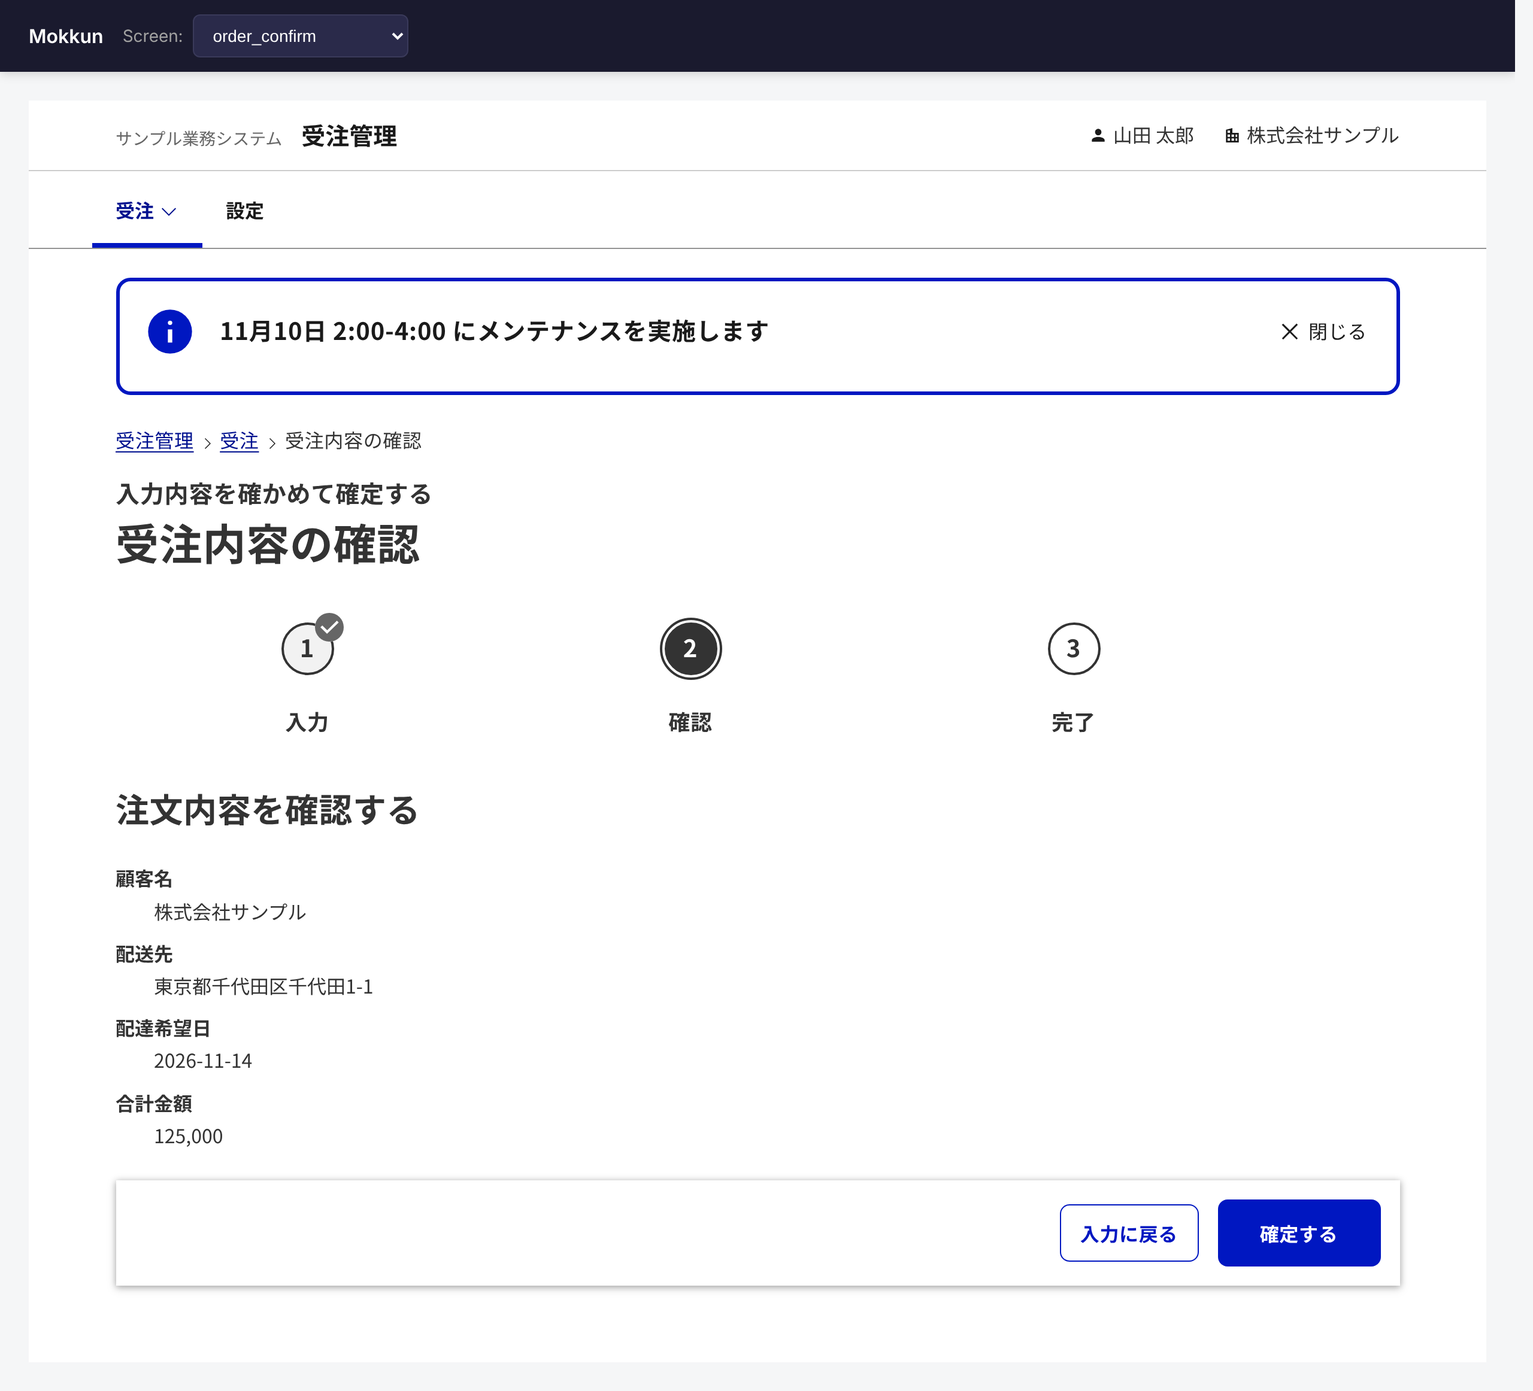
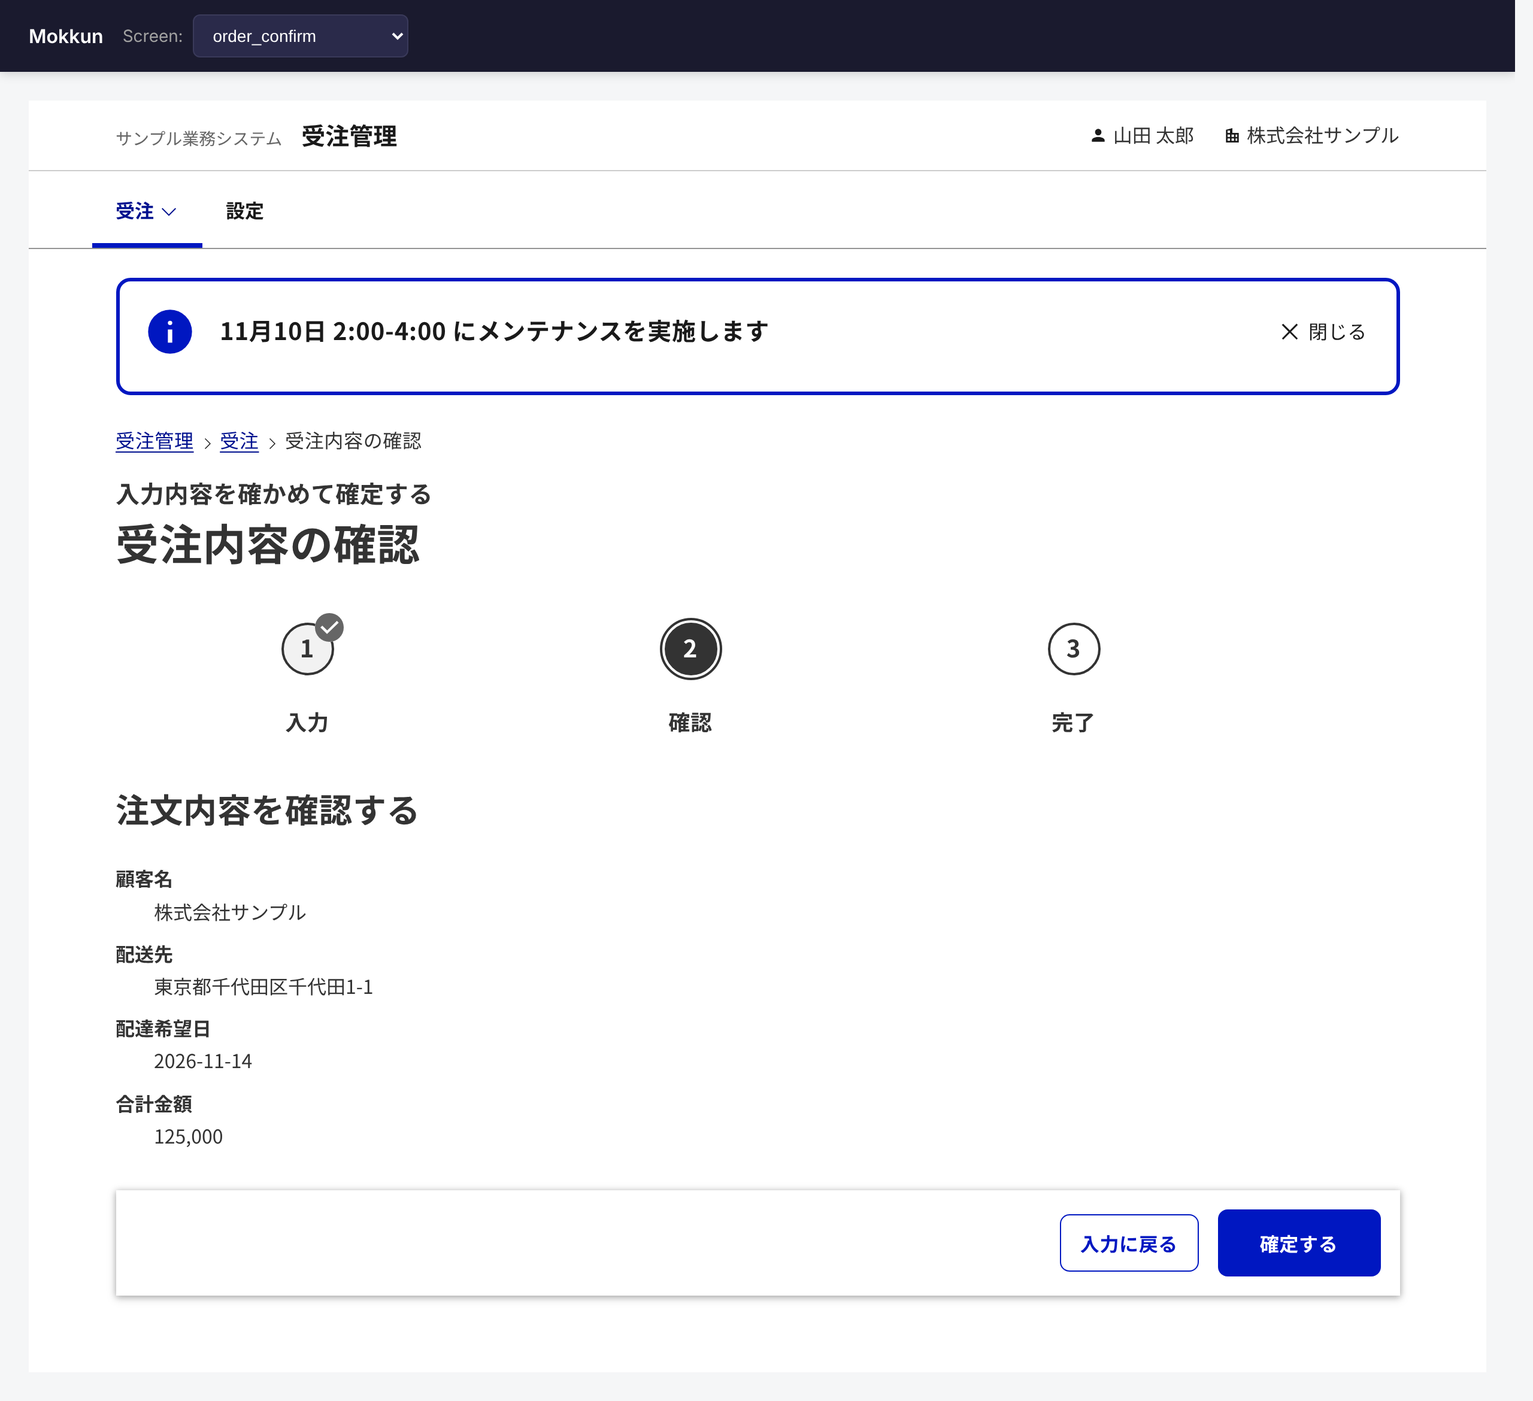
fix(renderer-v2): select widths, paging as first page, opt-in hash sync, loader single parse, spacing
Claude-Session: https://claude.ai/code/session_01EdDb32QHxcDQh62o82txRC

diff --git a/src/__tests__/renderer-v2-behavior.test.ts b/src/__tests__/renderer-v2-behavior.test.ts
@@ -4,6 +4,7 @@
 
 import { describe, it, expect, beforeEach, afterEach, vi } from 'vitest'
 import fs from 'fs'
+import yaml from 'js-yaml'
 import { parseYamlV2 } from '../parser/yaml-parser'
 import { renderViewV2, mountViewV2 as mountRaw, type V2Controller } from '../renderer-v2'
 import { loadFromUrl } from '../loader'
@@ -207,6 +208,8 @@ describe('visibleWhen', () => {
     ['select', f('src', 'select', { default: 'b', options: [{ value: 'a', label: 'A' }, { value: 'b', label: 'B' }] }), () => {}, 'b', true],
     ['checkbox multiple (1 件の選択肢)', f('src', 'checkbox', { multiple: true, default: ['a'], options: [{ value: 'a', label: 'A' }] }), () => {}, 'a', true],
     ['checkbox multiple 未選択', f('src', 'checkbox', { multiple: true, options: [{ value: 'a', label: 'A' }] }), () => {}, 'a', false],
+    ['date (既定値あり)', f('src', 'date', { default: '2026-11-14' }), () => {}, '2026-11-14', true],
+    ['date (未入力)', f('src', 'date'), () => {}, '2026-11-14', false],
     ['select multiple', f('src', 'select', { multiple: true, default: ['b'], options: [{ value: 'a', label: 'A' }, { value: 'b', label: 'B' }] }), () => {}, 'a', false],
   ]
   it.each(cases)('静的な初期表示と mount 後の評価が一致する: %s', (_name, src, _prep, equals, expected) => {
@@ -277,7 +280,10 @@ describe('field.width / date カレンダーボタン', () => {
   })
   it('props.calendar でカレンダーボタン、inline は月表示', () => {
     const root = dom(renderViewV2(build({ sections: [section([f('a', 'date', { props: { calendar: true } }), f('b', 'date', { inline: true })])] }), 'v'))
-    expect(root.querySelector('[data-field="a"] button.dads-date-picker__calendar-button[aria-haspopup]')).not.toBeNull()
+    const btn = root.querySelector('[data-field="a"] button.dads-date-picker__calendar-button')!
+    expect(btn.getAttribute('aria-disabled')).toBe('true')
+    expect(btn.hasAttribute('aria-haspopup')).toBe(false)
+    expect(btn.hasAttribute('aria-expanded')).toBe(false)
     expect(root.querySelector('[data-field="b"] .dads-calendar')).not.toBeNull()
     expect(root.querySelector('[data-field="b"] .dads-date-picker__calendar-button')).toBeNull()
   })
@@ -397,7 +403,10 @@ describe('ローダー / Mokkun.init', () => {
   it('v2 文書はローダーを 1 回通るだけで schemaV2 を返す', async () => {
     const text = fs.readFileSync('examples/v2/order-entry.yaml', 'utf-8')
     vi.stubGlobal('fetch', vi.fn().mockResolvedValue({ ok: true, text: async () => text }))
+    const load = vi.spyOn(yaml, 'load')
     const r = await loadFromUrl('http://localhost/order-entry.yaml')
+    expect(load).toHaveBeenCalledTimes(1)
+    load.mockRestore()
     expect(r.success).toBe(true)
     if (r.success) {
       expect(r.schemaV2!.mokkun).toBe(2)
@@ -441,5 +450,74 @@ views:
     expect(document.querySelector(STYLE)).toBe(style)
     inst.destroy()
     expect(document.querySelector(STYLE)).toBeNull()
+  })
+})
+
+describe('ページ送りと checkbox の値', () => {
+  it('pageSize が無ければページ送りを出さない', () => {
+    const s = build({ sections: [{ id: 'l', title: 'L', kind: 'list', list: { columns: [{ id: 'c', label: 'C' }] } }] })
+    expect(dom(renderViewV2(s, 'v')).querySelector('.dads-page-navigation')).toBeNull()
+  })
+  it('単一 checkbox は value="true"', () => {
+    const root = dom(renderViewV2(build({ sections: [section([f('c', 'checkbox')])] }), 'v'))
+    expect(root.querySelector('input[type="checkbox"]')!.getAttribute('value')).toBe('true')
+  })
+})
+
+describe('挿入される <style>', () => {
+  it('DADS と mokkun-v2.css の実際の内容を含む', () => {
+    mountViewV2(container, build({}), 'v')
+    const css = document.querySelector(STYLE)!.textContent!
+    expect(css).toContain('.dads-select__control')
+    expect(css).toContain('[data-width="full"]')
+  })
+})
+
+describe('repeatable の再採番とフォーカス', () => {
+  it('既知の接尾辞だけを再採番し、a__2-b のような item 名は壊さない', () => {
+    const s = build({ sections: [{ id: 'r', title: 'R', repeatable: { min: 1 }, fields: [f('x__2-b', 'text', { help: 'h' })] }] })
+    mountViewV2(container, s, 'v')
+    container.querySelector<HTMLElement>('[data-repeat-add]')!.click()
+    const input = container.querySelectorAll<HTMLInputElement>('input[name^="x__2-b"]')
+    expect(Array.from(input).map(i => i.name)).toEqual(['x__2-b__1', 'x__2-b__2'])
+    expect(input[1].id).toBe('v-x__2-b__2')
+    expect(input[1].getAttribute('aria-describedby')).toBe('v-x__2-b__2-support')
+  })
+  it('削除後は追加ボタンにフォーカスが移る', () => {
+    const s = build({ sections: [{ id: 'r', title: 'R', repeatable: { min: 1, max: 3 }, fields: [f('x', 'text')] }] })
+    mountViewV2(container, s, 'v')
+    const add = container.querySelector<HTMLElement>('[data-repeat-add]')!
+    add.click()
+    container.querySelectorAll<HTMLElement>('[data-repeat-remove]')[1].click()
+    expect(document.activeElement).toBe(add)
+  })
+})
+
+describe('syncHash', () => {
+  const s = build({ secondaryActions: [{ id: 'go', label: 'Go', kind: 'navigate', to: 'v' }] })
+  it('既定では location.hash を書き換えない', () => {
+    window.location.hash = ''
+    const seen: string[] = []
+    mountViewV2(container, s, 'v', { onNavigate: v => seen.push(v) })
+    container.querySelector<HTMLElement>('[data-action="go"]')!.click()
+    expect(seen).toEqual(['v'])
+    expect(window.location.hash).toBe('')
+  })
+  it('syncHash: true のとき書き換える（ナビ・アクション共通）', () => {
+    mountViewV2(container, s, 'v', { syncHash: true })
+    container.querySelector<HTMLElement>('[data-action="go"]')!.click()
+    expect(window.location.hash).toBe('#v')
+  })
+  it('Mokkun.init の syncHash オプション（既定 false）', async () => {
+    const yamlText = 'mokkun: 2\napp: { name: A }\nviews:\n  a:\n    title: A\n    goal: G\n    primaryAction: { id: go, label: Go, kind: navigate, to: b }\n    sections: []\n  b:\n    title: B\n    goal: G\n    sections: []\n'
+    window.location.hash = ''
+    const a = await Mokkun.init({ container, yamlContent: yamlText })
+    container.querySelector<HTMLElement>('[data-action="go"]')!.click()
+    expect(window.location.hash).toBe('')
+    a.destroy()
+    const b = await Mokkun.init({ container, yamlContent: yamlText, syncHash: true })
+    container.querySelector<HTMLElement>('[data-action="go"]')!.click()
+    expect(window.location.hash).toBe('#b')
+    b.destroy()
   })
 })

diff --git a/src/__tests__/renderer-v2.test.ts b/src/__tests__/renderer-v2.test.ts
@@ -121,8 +121,10 @@ describe('order_list', () => {
     expect(root.querySelector('nav.dads-page-navigation')).not.toBeNull()
     expect(root.querySelectorAll('tbody tr').length).toBe(3)
     expect(root.querySelector('[data-empty][hidden]')!.textContent).toBe('該当する受注はありません')
-    // 前後のページが無いときはボタンを出さない（無効にもしない）
-    expect(root.querySelectorAll('nav.dads-page-navigation button').length).toBe(0)
+    // pageSize があれば 1 ページ目の見え方（カウンターと「次のページ」のみ。前のページは出さない）
+    expect(root.querySelector('.dads-page-navigation__counter')!.textContent).toBe('1 / 5')
+    expect(root.querySelectorAll('nav.dads-page-navigation button').length).toBe(1)
+    expect(root.querySelector('nav.dads-page-navigation [data-control="prev"]')).toBeNull()
     expect(root.querySelector('figure.dads-table[data-row-hover-highlight] .dads-table__caption')).not.toBeNull()
   })
 })
@@ -263,7 +265,7 @@ describe('mountViewV2', () => {
 
   it('確認ダイアログ: アクションで開き、確定で実行される', () => {
     const seen: string[] = []
-    mountViewV2(container, schema, 'order_form', { onNavigate: v => seen.push(v) })
+    mountViewV2(container, schema, 'order_form', { onNavigate: v => seen.push(v), syncHash: true })
     const dialog = container.querySelector<HTMLDialogElement>('dialog')!
     expect(dialog.open).toBe(false)
     container.querySelector<HTMLElement>('[data-action="cancel"]')!.click()
@@ -278,7 +280,7 @@ describe('mountViewV2', () => {
 
   it('グローバルナビ・navigate アクションで onNavigate を呼ぶ', () => {
     const seen: string[] = []
-    mountViewV2(container, schema, 'order_list', { onNavigate: v => seen.push(v) })
+    mountViewV2(container, schema, 'order_list', { onNavigate: v => seen.push(v), syncHash: true })
     container.querySelector<HTMLElement>('.mk2-globalnav a[data-nav-view="settings"]')!.click()
     container.querySelector<HTMLElement>('[data-action="new_order"]')!.click()
     expect(seen).toEqual(['settings', 'order_form'])

diff --git a/src/renderer-v2/section-list.ts b/src/renderer-v2/section-list.ts
@@ -7,7 +7,7 @@ import type { InputField } from '../types/schema'
 import type { ListColumnV2, SectionV2 } from '../types/schema-v2'
 import { generateDummyData } from '../renderer/utils/dummy-data'
 import { domId, type ViewContext } from './context'
-import { sortIcons, sortSvg } from './icons'
+import { pageNavNext, sortIcons, sortSvg } from './icons'
 import { attrs, esc } from './util'
 
 const DUMMY_ROWS = 3
@@ -106,6 +106,13 @@ export function renderList(section: SectionV2, ctx: ViewContext): string {
     ? `<div class="mk2-list__search"><span class="dads-input-text"><input class="dads-input-text__input" type="search" data-size="md" aria-label="${esc(section.title)}を検索"></span></div>`
     : ''
   const pageSize = list.paging?.pageSize
+  // ページが 1 つだけならページ送りは出さない（DADS）。pageSize があるときは「1 ページ目」の見え方を示す（upstream first-page.html）
+  const paging = pageSize
+    ? `<nav class="dads-page-navigation" aria-label="ページ">
+  <span class="dads-page-navigation__counter">1 / 5</span>
+  <button class="dads-button" type="button" data-type="text" data-size="md" data-control="next">次のページ${pageNavNext}</button>
+</nav>`
+    : ''
   return `<div class="mk2-list" data-list="${esc(section.id)}"${attrs({ 'data-page-size': pageSize })}>
 ${search}
 <figure class="dads-table" data-row-hover-highlight${selection ? ' data-selectable' : ''}>
@@ -122,8 +129,6 @@ ${search}
   </table>
 </figure>
 ${empty ? `<p class="dads-form-control-label__support-text mk2-empty" data-empty hidden>${esc(empty)}</p>` : ''}
-<nav class="dads-page-navigation" aria-label="ページ">
-  <span class="dads-page-navigation__counter">1 / 1</span>
-</nav>
+${paging}
 </div>`
 }

diff --git a/src/renderer-v2/mokkun-v2.css b/src/renderer-v2/mokkun-v2.css
@@ -184,7 +184,7 @@
   position: sticky;
   bottom: 0;
   z-index: 10;
-  margin-top: 24px;
+  margin-top: 32px;
   background-color: var(--color-neutral-white);
   box-shadow: var(--elevation-1);
   padding: 16px;
@@ -210,10 +210,17 @@
   padding-top: 32px;
 }
 
-.mk2-section:first-child {
+/* 最初に表示されるセクションは上の罫線・余白を持たない（先頭が visibleWhen で隠れている場合も 2 つ先まで対応） */
+.mk2-section:not([hidden]):first-child,
+[hidden]:first-child + .mk2-section:not([hidden]),
+[hidden]:first-child + [hidden] + .mk2-section:not([hidden]) {
   margin-top: 0;
   border-top: 0;
   padding-top: 0;
+}
+
+.mk2-sections > .mk2-accordion-group:first-child {
+  margin-top: 0;
 }
 
 .mk2-section__purpose {
@@ -367,7 +374,7 @@
 }
 
 /* 入力欄は列幅いっぱいに広げる。field.width があればその幅（xs ≈ 6rem / sm ≈ 10rem / md ≈ 20rem / lg ≈ 30rem） */
-.mk2-fields :is(.dads-input-text__input, .dads-textarea__textarea, .dads-select, .dads-select__select) {
+.mk2-fields :is(.dads-input-text__input, .dads-textarea__textarea, .dads-select, .dads-select__control, .dads-select__select) {
   width: 100%;
 }
 
@@ -389,6 +396,7 @@
 
 .mk2-fields > [data-width="full"] {
   --mk2-field-width: 100%;
+  grid-column: 1 / -1;
 }
 
 /* width 指定は 100% の規則より優先（詳細度を上げて上書き） */
@@ -398,7 +406,7 @@
   width: var(--mk2-field-width);
 }
 
-.mk2-fields > [data-width] :is(.dads-input-text__input, .dads-textarea__textarea, .dads-select__select) {
+.mk2-fields > [data-width] :is(.dads-input-text__input, .dads-textarea__textarea, .dads-select__control, .dads-select__select) {
   width: 100%;
 }
 

diff --git a/src/loader/file-loader.ts b/src/loader/file-loader.ts
@@ -3,7 +3,8 @@
  * YAMLファイルの読み込み機能を提供
  */
 
-import { parseYaml, parseYamlV2, isV2Yaml, compileV2, formatParseErrors } from '../parser'
+import yaml from 'js-yaml'
+import { parseYaml, parseV2Document, isV2Document, compileV2, formatParseErrors } from '../parser'
 import type { MokkunSchema } from '../types/schema'
 import type { MokkunV2Schema } from '../types/schema-v2'
 import type { ParseError } from '../parser/yaml-parser'
@@ -161,9 +162,17 @@ function parseYamlContent(
   fileName: string,
   source: 'file' | 'url' | 'drop'
 ): FileLoadResult {
-  if (isV2Yaml(content)) {
-    // v2 は 1 回だけ検証し、旧フォーマットへの変換結果（画面名の一覧など）は補助として持たせる
-    const v2 = parseYamlV2(content)
+  // YAML は 1 回だけ読む。v2 は読み込み済みの値をそのまま検証する（読めないときは parseYaml がエラー内容を作る）
+  let loaded: unknown
+  let readable = true
+  try {
+    loaded = yaml.load(content)
+  } catch {
+    readable = false
+  }
+
+  if (readable && isV2Document(loaded)) {
+    const v2 = parseV2Document(loaded)
     if (!v2.success) {
       return {
         success: false,
@@ -175,6 +184,7 @@ function parseYamlContent(
         },
       }
     }
+    // 旧フォーマットへの変換結果は補助（画面名など）。変換できなくても v2 の描画には影響しない
     let compiled: MokkunSchema | null = null
     try {
       compiled = compileV2(v2.data)

diff --git a/src/renderer-v2/mount-repeat.ts b/src/renderer-v2/mount-repeat.ts
@@ -2,9 +2,10 @@
  * repeatable: グループの追加・削除、添字の再採番、min / max の反映
  */
 
-/** 添字トークン `__<n>`。id / name の末尾か、`-` / 空白の直前にあるものだけを対象にする */
-const INDEX_TOKEN = /__\d+(?=$|[-\s])/
-const INDEX_TOKEN_G = /__\d+(?=$|[-\s])/g
+/** 添字トークン `__<n>`。id / name の末尾か空白の直前、またはこのレンダラーが付ける既知の接尾辞（-support / -error / -1 など）の直前だけを対象にする（`a__2-b` は書き換えない） */
+const SUFFIX = '-(?:support|error|label|button|selected|list|year|month|day|\\d+)'
+const INDEX_TOKEN = new RegExp(`__\\d+(?=$|\\s|${SUFFIX}(?:$|\\s))`)
+const INDEX_TOKEN_G = new RegExp(INDEX_TOKEN.source, 'g')
 const INDEX_ATTRS = ['id', 'for', 'name', 'list', 'aria-describedby', 'aria-labelledby', 'aria-controls']
 
 /** DOM id / name に付く `__<n>` を新しい番号へ置き換え、見出しの番号も更新する */
@@ -64,6 +65,8 @@ export function handleRepeatClick(target: Element): boolean {
     groupsOf(rep).forEach((g, i) => reindex(g, i + 1))
   }
   sync(rep)
+  // 削除したボタンは消えるため、フォーカスを追加ボタンへ移す（max で無効だった追加ボタンは sync 後に使える）
+  if (remove) rep.querySelector<HTMLElement>('[data-repeat-add]')?.focus()
   return true
 }
 

diff --git a/src/renderer-v2/mount.ts b/src/renderer-v2/mount.ts
@@ -37,8 +37,8 @@ export function attachV2Behavior(root: HTMLElement, callbacks: V2Callbacks): () 
   const ac = new AbortController()
   const { signal } = ac
 
-  const navigate = (view: string, setHash: boolean) => {
-    if (setHash) {
+  const navigate = (view: string) => {
+    if (callbacks.syncHash === true) {
       try {
         window.location.hash = view
       } catch {
@@ -51,7 +51,7 @@ export function attachV2Behavior(root: HTMLElement, callbacks: V2Callbacks): () 
   const run = (button: HTMLElement) => {
     const kind = button.dataset.actionKind ?? 'custom'
     const to = button.dataset.navigateTo
-    if (kind === 'navigate' && to) return navigate(to, true)
+    if (kind === 'navigate' && to) return navigate(to)
     if (kind === 'reset') {
       root.querySelector('form')?.reset()
       restoreAfterReset(root)
@@ -69,7 +69,7 @@ export function attachV2Behavior(root: HTMLElement, callbacks: V2Callbacks): () 
       if (navLink) {
         ev.preventDefault()
         closeAllSubmenus(root)
-        navigate(navLink.dataset.navView!, true)
+        navigate(navLink.dataset.navView!)
         return
       }
       const toggle = target.closest<HTMLElement>('[data-submenu-toggle]')

diff --git a/src/renderer-v2/fields/date.ts b/src/renderer-v2/fields/date.ts
@@ -41,10 +41,10 @@ function renderPicker(c: Ctl): string {
   const ymd = parseDate(c.value)
   const inputs = attrs({ 'data-error': !!c.error, 'data-readonly': c.f.readonly === true })
   const error = c.error ? `\n      <p id="${esc(c.errorId)}" class="dads-date-picker__error-text">${esc(c.error)}</p>` : ''
-  // props.calendar: 静的なカレンダーボタン（ポップオーバーは出さない）
+  // props.calendar: 静的なカレンダーボタン（モック。ポップオーバーは出さず aria-disabled、上流のクラスは維持）
   const calendar =
     c.f.props?.calendar === true
-      ? `\n        <button${attrs({ class: 'dads-date-picker__calendar-button', type: 'button', 'aria-haspopup': 'dialog', 'aria-expanded': 'false', disabled: c.f.readonly === true, 'data-js-calendar-button': true })}>${calendarButtonIcon}</button>`
+      ? `\n        <button${attrs({ class: 'dads-date-picker__calendar-button', type: 'button', 'aria-disabled': 'true', 'data-js-calendar-button': true })}>${calendarButtonIcon}</button>`
       : ''
   return wrapGroup(
     c,

diff --git a/src/renderer-v2/mount-visibility.ts b/src/renderer-v2/mount-visibility.ts
@@ -15,6 +15,10 @@ function findField(scope: ParentNode, item: string): HTMLElement | undefined {
 
 /** 項目の現在値。複数選択（data-multiple）は選択値の配列、単一 checkbox / switch は 'true' / 'false' */
 function readValue(field: HTMLElement): string | string[] {
+  if (field.dataset.component === 'date' && !field.querySelector('.dads-calendar')) {
+    const parts = ['year', 'month', 'day'].map(p => field.querySelector<HTMLInputElement>(`input[data-js-${p}-input]`)?.value.trim() ?? '')
+    return parts.every(p => p === '') ? '' : parts.join('-')
+  }
   const radios = Array.from(field.querySelectorAll<HTMLInputElement>('input[type="radio"]'))
   if (radios.length > 0) return radios.find(r => r.checked)?.value ?? ''
   const checks = Array.from(field.querySelectorAll<HTMLInputElement>('input[type="checkbox"]'))

diff --git a/src/lib.ts b/src/lib.ts
@@ -44,6 +44,8 @@ export interface MokkunInitOptions {
   yamlContent?: string
   /** Initial theme ('light' | 'dark') */
   theme?: BuiltInThemeId | string
+  /** v2 文書で、画面遷移時に location.hash も書き換える（既定 false） */
+  syncHash?: boolean
   /** Initial screen to display */
   initialScreen?: string
   /** Callback when ready */
@@ -112,6 +114,7 @@ function createInstance(state: InternalState): MokkunInstance {
     const release = holdV2Styles()
     state.v2Controller?.destroy()
     const callbacks: V2Callbacks = {
+      syncHash: state.options.syncHash === true,
       onNavigate: to => {
         const fromScreen = state.currentScreenName
         instance.showScreen(to)

diff --git a/src/main.ts b/src/main.ts
@@ -366,6 +366,7 @@ function renderAppInner(schema: MokkunSchema | null, screenName: string | null):
   const v2Root = app.querySelector<HTMLElement>('#mk-v2-root')
   if (v2Root && currentSchemaV2 && screenName) {
     v2Controller = mountViewV2(v2Root, currentSchemaV2, screenName, {
+      syncHash: true,
       onNavigate: to => {
         if (!currentSchemaV2 || !Object.hasOwn(currentSchemaV2.views, to)) return
         currentScreenName = to

diff --git a/src/renderer-v2/index.ts b/src/renderer-v2/index.ts
@@ -21,6 +21,8 @@ export interface V2Callbacks {
   onNavigate?: (view: string) => void
   /** navigate 以外のアクション（submit / custom / reset）を実行したとき */
   onAction?: (actionId: string, kind: string) => void
+  /** true のとき、遷移時に location.hash も書き換える（既定 false） */
+  syncHash?: boolean
 }
 
 export interface V2Controller {
